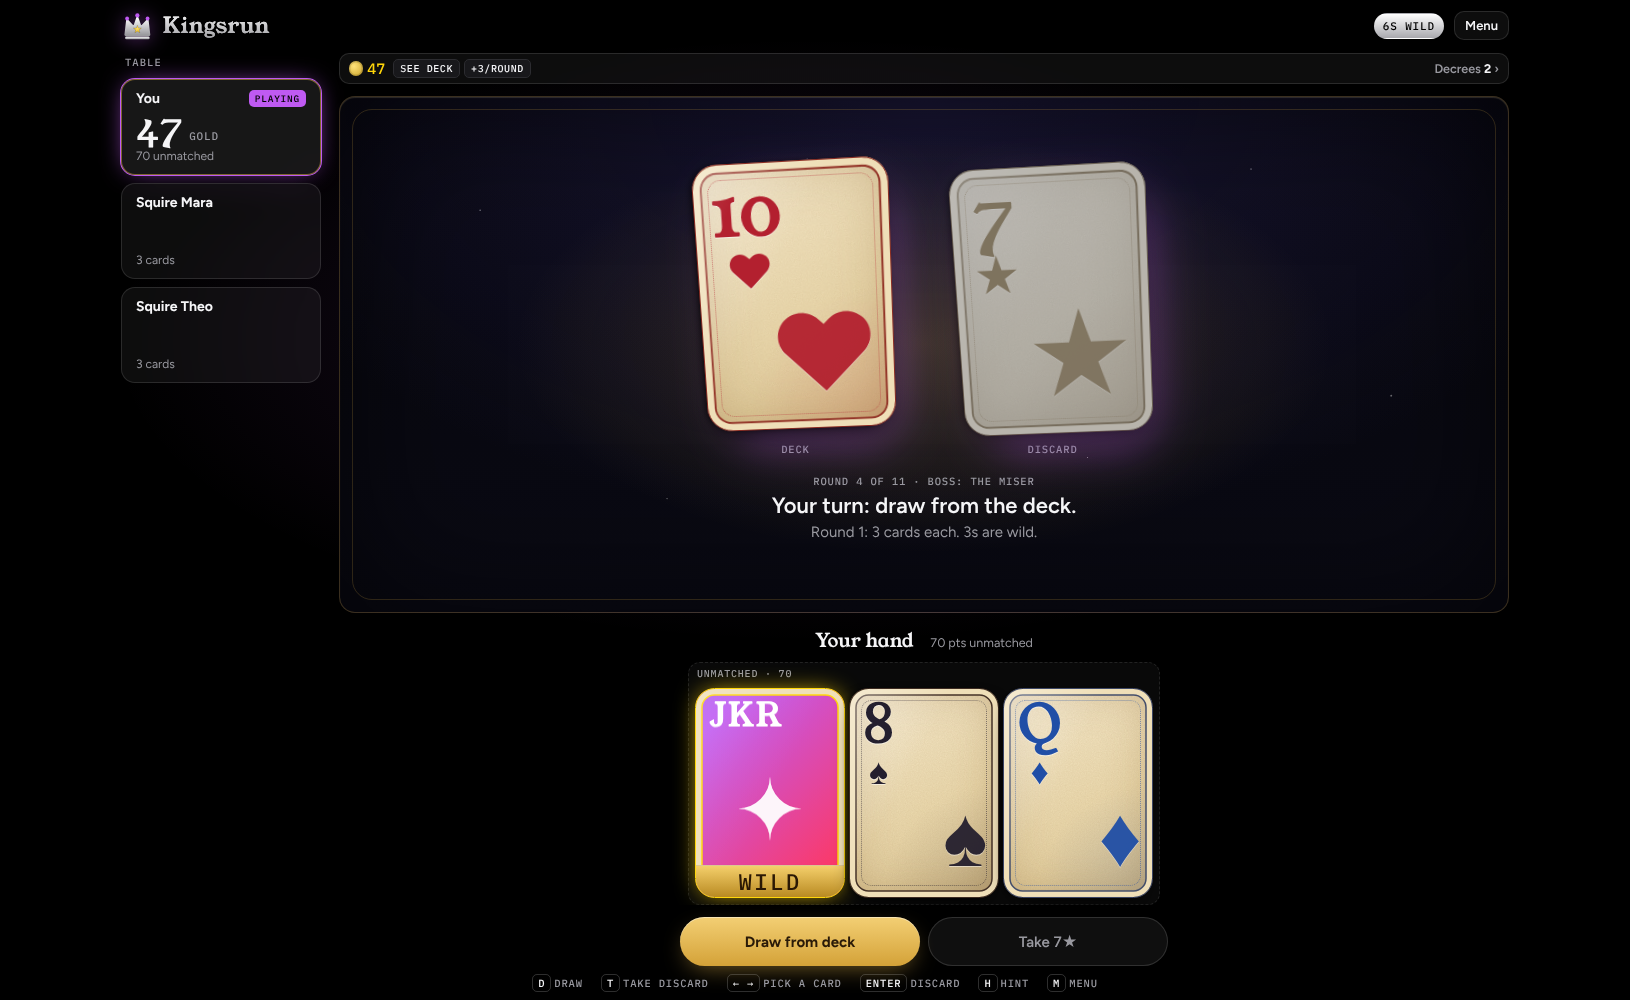
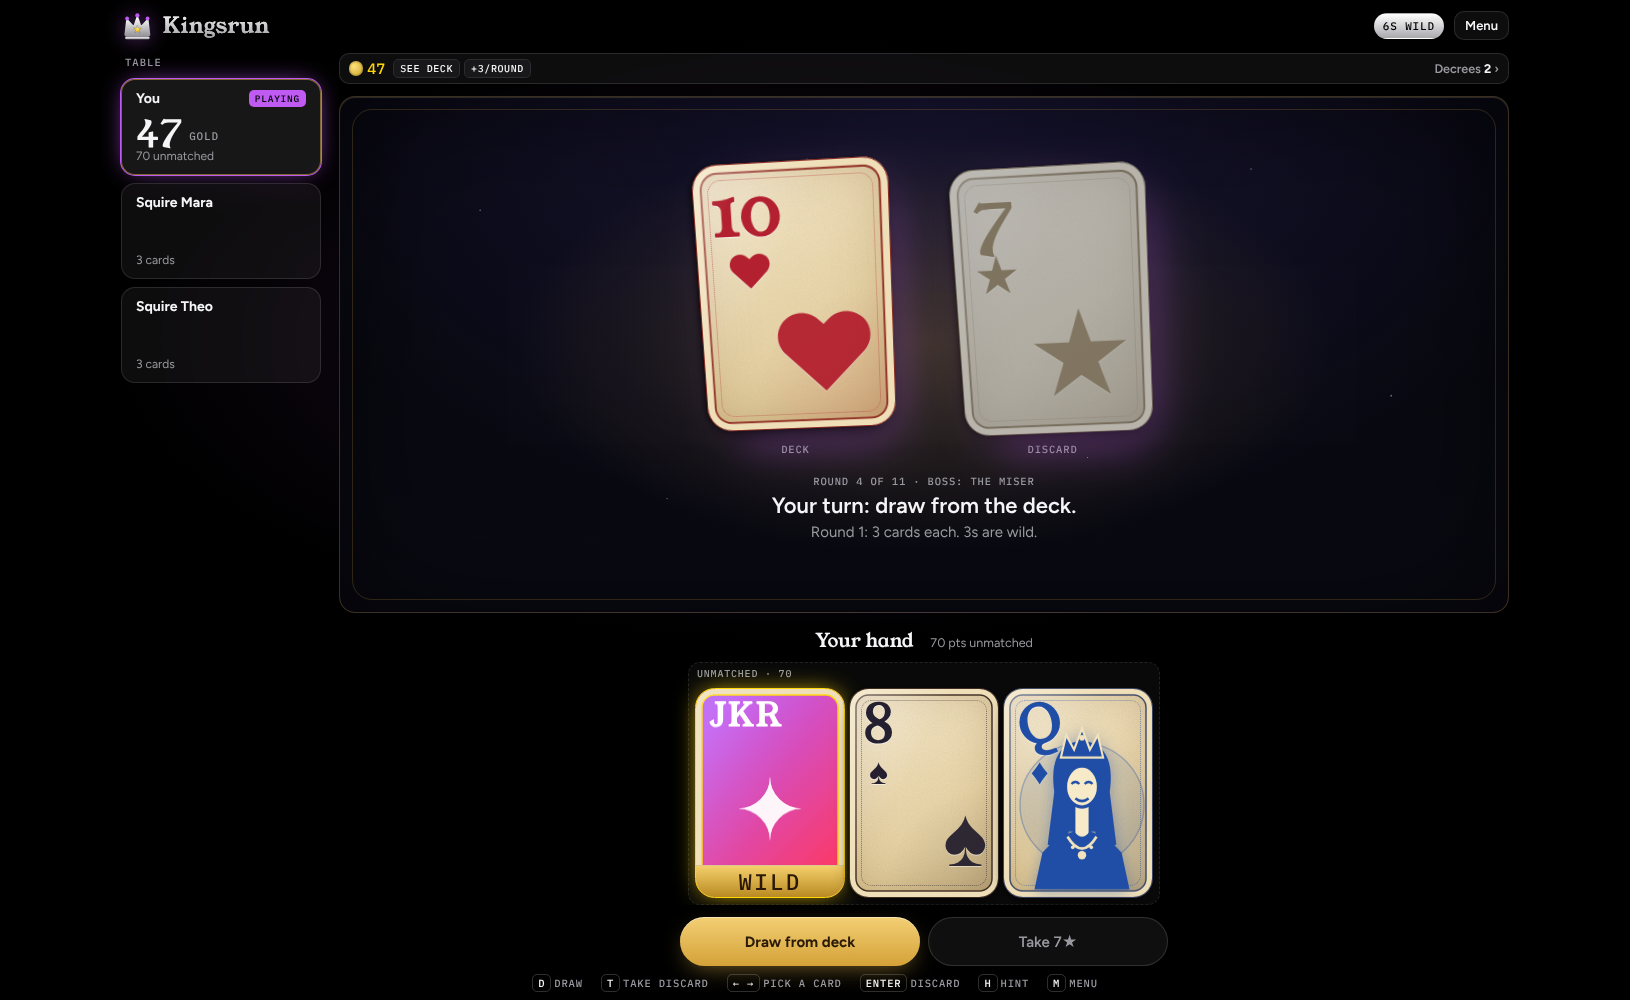
cook round 3: court-card figures and boss portraits (desktop only)
Claude-Session: https://claude.ai/code/session_0146jcC73GBfcingMg6m7u9m

Changed region(s): [[0.6135, 0.713, 0.7055, 0.899]]

diff --git a/index.html b/index.html
@@ -571,6 +571,22 @@ html[data-mode=run] .btn:not(.ghost):not(:disabled){background:linear-gradient(1
   html[data-mode=run] .sheet h2,html[data-mode=run] .offer b{color:#F6E3B0}
   html[data-mode=run] .bp.you{border-color:rgba(232,184,74,.5)}
 }
+
+.card .art,.bart{display:none}
+/* ===== cook round 3: court-card figures and boss cards (desktop only) ===== */
+@media (hover:hover) and (min-width:900px){
+  .card{--cut:#101012;--skin:color-mix(in srgb,currentColor 32%,#101012)}
+  html[data-mode=run] .card{--cut:#F1E3BD;--skin:#F6EAC9}
+  .card.court .art{display:block;position:absolute;right:calc(var(--cw)*.03);bottom:calc(var(--cw)*.05);width:calc(var(--cw)*.88);height:auto;overflow:visible;pointer-events:none;filter:drop-shadow(0 calc(var(--cw)*.02) calc(var(--cw)*.05) color-mix(in srgb,currentColor 40%,transparent))}
+  .card.court .big{display:none}
+  .card.court .tag{z-index:2}
+  .mini .card .art{display:none}
+  .bp.boss{padding-top:6px;border-color:rgba(232,70,91,.55);background:linear-gradient(180deg,rgba(232,70,91,.14),rgba(255,255,255,.04))}
+  .bp.boss .bart{display:block;width:100%;height:118px;margin:0 0 4px;filter:drop-shadow(0 6px 14px rgba(0,0,0,.6))}
+  .bp.boss .bsc{font-size:22px;color:var(--bad)}
+  .bossnote{position:relative;padding-left:92px;min-height:104px;justify-content:center}
+  .bossnote .bart{display:block;position:absolute;left:8px;top:50%;transform:translateY(-50%);width:76px;height:95px;filter:drop-shadow(0 4px 10px rgba(0,0,0,.6))}
+}
 </style>
 
 <div class="app">
@@ -1178,7 +1194,7 @@ function runPanelHTML(){
   const r=G.run,boss=BOSSES[r.boss];
   return `<div class="sheethead"><h2>Your Court</h2><button class="iconbtn" data-act="rclose">Done</button></div>
     <div class="treasury"><span class="ml">Treasury</span><b><i class="coin" aria-hidden="true"></i>${r.gold}</b><span class="mw">Every point you’re caught with costs 1 gold.${G.round<=3?` Act 1 bills are capped at ${ECON.act1Cap}.`:''}</span></div>
-    ${boss?`<div class="bossnote"><b>${boss.name}</b><span>${boss.rule}</span></div>`:''}
+    ${boss?`<div class="bossnote">${bossArt(boss.key)}<b>${boss.name}</b><span>${boss.rule}</span></div>`:''}
     <h3>Decrees · ${r.decrees.length} of ${ECON.maxD}</h3>${decreeList(true)}
     ${r.pardon||r.insurance?`<p class="note">Active this round: ${[r.pardon&&'Royal Pardon',r.insurance&&'Insurance'].filter(Boolean).join(', ')}.</p>`:''}
     <h3>Regalia · ${r.regalia.length} of ${ECON.maxR}</h3>${regaliaList(false)}`;
@@ -1192,7 +1208,7 @@ function courtHTML(){
       <button class="btn${o.sold||full||p>r.gold?' ghost':''}" data-act="rbuy" data-k="${k}" ${o.sold||full||p>r.gold?'disabled':''}>${lbl}</button></div>`;};
   return `<div class="sheethead"><h2>The Court</h2><span class="goldbig"><i class="coin" aria-hidden="true"></i>${r.gold}</span></div>
     <p class="note">Next: round ${nr} of 11 · ${nr+2} cards · ${rankLabel(nr+2)}s wild${nr<=3?` · bills capped at ${ECON.act1Cap}`:''}</p>
-    ${nb?`<div class="bossnote"><b>Boss next: ${nb.name}</b><span>${nb.rule} Beat it for +${ECON.boss} gold and a free pick at the next Court.</span></div>`:''}
+    ${nb?`<div class="bossnote">${bossArt(nb.key)}<b>Boss next: ${nb.name}</b><span>${nb.rule} Beat it for +${ECON.boss} gold and a free pick at the next Court.</span></div>`:''}
     ${r.free?'<p class="note good">Boss bounty: your first pick here is free.</p>':''}
     ${nr<=3&&r.gold<ECON.act1Cap?`<p class="note err">Careful: next round can cost up to ${ECON.act1Cap}, and you have ${r.gold}.</p>`:''}
     <div class="offers">${r.shop.map(offer).join('')}</div>
@@ -1233,11 +1249,35 @@ function pump(){
 }
 function commit(){save();render();pump();}
 
+
+/* ===== cook round 3: original SVG figures for court cards and bosses (shown on desktop only) ===== */
+const CUT='var(--cut,#101012)',SKIN='var(--skin,var(--cut,#101012))';
+const COURT_ART={
+ 13:`<path d="M30 32 L33 13 L43 23 L50 9 L57 23 L67 13 L70 32 Z" fill="currentColor"/><circle cx="33" cy="12" r="2.6" fill="currentColor"/><circle cx="50" cy="8" r="2.6" fill="currentColor"/><circle cx="67" cy="12" r="2.6" fill="currentColor"/><rect x="29" y="30" width="42" height="6" rx="1.5" fill="currentColor"/><circle cx="50" cy="33" r="1.8" fill="${CUT}"/><circle cx="40" cy="33" r="1.4" fill="${CUT}"/><circle cx="60" cy="33" r="1.4" fill="${CUT}"/>
+ <path d="M12 130 L16 100 Q26 87 40 84 L50 97 L60 84 Q74 87 84 100 L88 130 Z" fill="currentColor"/><path d="M40 84 L50 100 L60 84" stroke="${CUT}" stroke-width="2" fill="none"/><g fill="${CUT}"><circle cx="24" cy="110" r="2"/><circle cx="33" cy="122" r="2"/><circle cx="76" cy="110" r="2"/><circle cx="67" cy="122" r="2"/><circle cx="50" cy="116" r="2.4"/></g>
+ <ellipse cx="50" cy="55" rx="15" ry="18" fill="${SKIN}" stroke="currentColor" stroke-width="2.6"/><circle cx="44" cy="51" r="1.9" fill="currentColor"/><circle cx="56" cy="51" r="1.9" fill="currentColor"/><path d="M50 52 v6" stroke="currentColor" stroke-width="1.6" fill="none"/>
+ <path d="M34 54 Q34 80 50 86 Q66 80 66 54 Q60 68 50 68 Q40 68 34 54 Z" fill="currentColor"/><path d="M42 61 Q50 56 58 61" stroke="${CUT}" stroke-width="2" fill="none"/>`,
+ 12:`<path d="M29 56 Q24 20 50 17 Q76 20 71 56 L76 96 Q63 100 60 86 L40 86 Q37 100 24 96 Z" fill="currentColor"/>
+ <path d="M44 64 h12 v24 q-6 8 -12 0 z" fill="${SKIN}" stroke="currentColor" stroke-width="2"/>
+ <path d="M14 130 L20 102 Q30 90 44 86 Q50 94 56 86 Q70 90 80 102 L86 130 Z" fill="currentColor"/><path d="M39 90 Q50 108 61 90" stroke="${CUT}" stroke-width="2" fill="none"/><circle cx="50" cy="104" r="3.2" fill="${CUT}"/><circle cx="43" cy="98" r="1.4" fill="${CUT}"/><circle cx="57" cy="98" r="1.4" fill="${CUT}"/>
+ <ellipse cx="50" cy="52" rx="12.5" ry="15.5" fill="${SKIN}" stroke="currentColor" stroke-width="2.4"/><path d="M42 50 q3 -3 6 0 M52 50 q3 -3 6 0" stroke="currentColor" stroke-width="1.8" fill="none"/><path d="M45 61 q5 4 10 0" stroke="currentColor" stroke-width="2" fill="none"/>
+ <path d="M34 30 L38 13 L44 24 L50 8 L56 24 L62 13 L66 30 Z" fill="currentColor" stroke="${CUT}" stroke-width="1.6"/><circle cx="50" cy="15" r="2.2" fill="${CUT}"/>`,
+ 11:`<path d="M60 18 Q86 2 94 28 Q82 16 66 26 Z" fill="currentColor"/><path d="M62 20 Q80 12 90 26" stroke="${CUT}" stroke-width="1.2" fill="none"/>
+ <path d="M28 40 Q28 17 52 16 Q75 18 74 40 Z" fill="currentColor"/><path d="M20 42 Q50 34 82 42 L82 47 Q50 41 20 47 Z" fill="currentColor"/><circle cx="52" cy="29" r="2.6" fill="${CUT}"/>
+ <path d="M45 68 h10 v16 h-10 z" fill="${SKIN}" stroke="currentColor" stroke-width="2"/>
+ <path d="M14 130 L19 102 Q30 90 42 84 L50 93 L58 84 Q70 90 81 102 L86 130 Z" fill="currentColor"/><path d="M42 84 L50 98 L58 84" stroke="${CUT}" stroke-width="2" fill="none"/><path d="M26 100 L72 130" stroke="${CUT}" stroke-width="3" fill="none"/><circle cx="50" cy="108" r="2" fill="${CUT}"/><circle cx="50" cy="118" r="2" fill="${CUT}"/>
+ <ellipse cx="50" cy="57" rx="12.5" ry="14.5" fill="${SKIN}" stroke="currentColor" stroke-width="2.4"/><circle cx="45" cy="55" r="1.8" fill="currentColor"/><circle cx="55" cy="55" r="1.8" fill="currentColor"/><path d="M45 64 q5 4 10 0" stroke="currentColor" stroke-width="2" fill="none"/>`};
+const courtArt=r=>COURT_ART[r]?`<svg class="art" viewBox="0 0 100 130" aria-hidden="true"><circle cx="50" cy="66" r="47" fill="currentColor" opacity=".09"/><circle cx="50" cy="66" r="47" fill="none" stroke="currentColor" stroke-width="1" opacity=".35"/>${COURT_ART[r]}</svg>`:'';
+const BOSS_LOOK={
+ miser:{c:'#E2B84C',t:'Hoards every discard',svg:`<path d="M22 150 L27 72 Q33 22 62 20 Q92 22 98 72 L103 150 Z" fill="currentColor"/><ellipse cx="62" cy="68" rx="22" ry="28" fill="#15110a"/><path d="M49 62 h11 M65 62 h11" stroke="currentColor" stroke-width="3.2" stroke-linecap="round"/><path d="M63 64 q-7 12 2 15" stroke="currentColor" stroke-width="2.6" fill="none" stroke-linecap="round"/><path d="M52 86 q10 5 20 0" stroke="currentColor" stroke-width="2.6" fill="none" stroke-linecap="round"/><path d="M38 150 Q28 120 52 113 Q62 108 72 113 Q96 120 86 150 Z" fill="#15110a" stroke="currentColor" stroke-width="3"/><path d="M52 113 h20" stroke="currentColor" stroke-width="3"/><circle cx="62" cy="133" r="9" fill="none" stroke="currentColor" stroke-width="3"/><circle cx="62" cy="133" r="3" fill="currentColor"/><circle cx="100" cy="36" r="9" fill="currentColor"/><circle cx="100" cy="36" r="4.5" fill="#15110a"/><circle cx="18" cy="58" r="6" fill="currentColor"/><circle cx="18" cy="58" r="3" fill="#15110a"/>`},
+ jester:{c:'#FF6DB8',t:'Changes the wild every turn',svg:`<path d="M22 64 Q14 32 5 18 Q23 20 40 47 Q46 15 61 4 Q74 18 80 47 Q98 20 115 18 Q106 32 98 64 Z" fill="currentColor"/><g fill="#FFD25A"><circle cx="5" cy="18" r="6"/><circle cx="61" cy="4" r="6"/><circle cx="115" cy="18" r="6"/></g><ellipse cx="60" cy="80" rx="24" ry="26" fill="#14081a" stroke="currentColor" stroke-width="3"/><path d="M36 80 A24 26 0 0 1 60 54 L60 106 A24 26 0 0 1 36 80 Z" fill="currentColor" opacity=".85"/><path d="M45 76 l5 -5 l5 5 l-5 5 z M65 76 l5 -5 l5 5 l-5 5 z" fill="#FFD25A"/><path d="M44 92 Q60 108 76 92" stroke="#FFD25A" stroke-width="3" fill="none" stroke-linecap="round"/><path d="M28 150 L33 114 L43 126 L51 109 L60 124 L69 109 L77 126 L87 114 L92 150 Z" fill="currentColor"/><path d="M60 130 l8 10 l-8 10 l-8 -10 z" fill="#14081a"/>`},
+ usurper:{c:'#E8465B',t:'Your Jokers aren’t wild',svg:`<path d="M6 150 L26 80 Q60 98 94 80 L114 150 Z" fill="currentColor" opacity=".9"/><ellipse cx="60" cy="74" rx="20" ry="24" fill="#12060a" stroke="currentColor" stroke-width="3"/><circle cx="52" cy="72" r="4.2" fill="currentColor"/><circle cx="68" cy="72" r="4.2" fill="currentColor"/><path d="M60 52 L56 64 L63 72 L58 88" stroke="currentColor" stroke-width="2.2" fill="none"/><path d="M51 90 h18" stroke="currentColor" stroke-width="2.4" stroke-linecap="round"/><g transform="rotate(-14 60 42)"><path d="M33 46 L37 20 L49 34 L60 12 L71 34 L83 20 L87 46 Z" fill="#FFD25A"/><rect x="32" y="44" width="56" height="7" rx="2" fill="#FFD25A"/><circle cx="60" cy="47.5" r="2" fill="#12060a"/></g><path d="M60 108 l5 11 l11 5 l-11 5 l-5 11 l-5 -11 l-11 -5 l11 -5 z" fill="#FFD25A"/>`}};
+const bossArt=k=>BOSS_LOOK[k]?`<svg class="bart" viewBox="0 0 120 150" aria-hidden="true" style="color:${BOSS_LOOK[k].c}">${BOSS_LOOK[k].svg}</svg>`:'';
 function cardHTML(c,wr,tag='div',attrs='',cls=''){
   if(c.s<0){const w=isWild(c,wr);
     return `<${tag} class="card joker${w?' wild':' deadj'} ${cls}" ${attrs} aria-label="Joker, ${w?'wild':'not wild'}"><span class="rk">JKR</span><span class="big">✦</span><span class="tag">${w?'wild':'dead'}</span></${tag}>`;}
   const w=isWild(c,wr);
-  return `<${tag} class="card s${c.s}${w?' wild':''} ${cls}" ${attrs} aria-label="${rankLabel(c.r)} of ${SUIT_NAMES[c.s]}${w?', wild':''}"><span class="rk">${rankLabel(c.r)}<i>${SUITS[c.s]}</i></span><span class="big">${SUITS[c.s]}</span>${w?'<span class="tag">wild</span>':''}</${tag}>`;
+  return `<${tag} class="card s${c.s}${c.r>=11?' court':''}${w?' wild':''} ${cls}" ${attrs} aria-label="${rankLabel(c.r)} of ${SUIT_NAMES[c.s]}${w?', wild':''}"><span class="rk">${rankLabel(c.r)}<i>${SUITS[c.s]}</i></span>${courtArt(c.r)}<span class="big">${SUITS[c.s]}</span>${w?'<span class="tag">wild</span>':''}</${tag}>`;
 }
 function meldLabel(m,wr){
   const nat=m.cards.find(c=>!isWild(c,wr));
@@ -1294,7 +1334,7 @@ function render(){
     const big=run?(you?`${run.gold}<small>gold</small>`:p.boss?'Boss':'&nbsp;'):p.score;
     const last=!run&&p.rounds&&p.rounds.length?`last round ${p.rounds[p.rounds.length-1]>0?'+':''}${p.rounds[p.rounds.length-1]}`:'';
     const sub=run?(you?`${Math.floor(solve(p.hand,rulesFor(i)).cost)} unmatched`:p.boss?esc(BOSSES[p.boss].short):`${p.hand.length} cards`):last;
-    return `<div class="bp${you?' you':''}${act?' act':''}${out?' out':''}${!run&&G.round>1&&p.score===lo?' lead':''}"><div class="bn"><span>${you&&!onl()&&p.name==='You'?'You':esc(p.name)}</span>${out?'<b class="bdg out">Out</b>':act?'<b class="bdg">Playing</b>':''}</div><div class="bsc">${big}</div><div class="bm">${sub}</div></div>`;}).join('');}
+    return `<div class="bp${you?' you':''}${act?' act':''}${out?' out':''}${p.boss?' boss':''}${!run&&G.round>1&&p.score===lo?' lead':''}">${p.boss?bossArt(p.boss):''}<div class="bn"><span>${you&&!onl()&&p.name==='You'?'You':esc(p.name)}</span>${out?'<b class="bdg out">Out</b>':act?'<b class="bdg">Playing</b>':''}</div><div class="bsc">${big}</div><div class="bm">${sub}</div></div>`;}).join('');}
 
   const canDraw=myTurn&&G.phase==='draw';
   const peek=run&&G.deck.length&&(runHas('spyglass')||run.peek)&&(G.phase==='draw'||G.phase==='discard')?G.deck[G.deck.length-1]:null;

diff --git a/cook/shoot.js b/cook/shoot.js
@@ -10,6 +10,10 @@ const srv=http.createServer((q,r)=>{let f=path.join(root,decodeURIComponent(q.ur
   const p=await ctx.newPage();const errs=[];p.on('pageerror',e=>errs.push(String(e)));const tag=`${w}x${h}`;
   const snap=async n=>{await p.waitForTimeout(450);await p.screenshot({path:`${OUT}/${n}-${tag}.png`});};
   await p.goto('http://localhost:8810/');await p.waitForTimeout(500);if(await p.isVisible('#title'))await p.click('#tplay');await p.waitForTimeout(600);
+  // round 3: court figures + boss cards
+  await p.evaluate(()=>{clearTimeout(timer);timer=null;newGame({mode:'run',count:2,names:[]});G.run.gold=47;G.turn=0;G.phase='discard';const me=G.players[0];me.hand=[{s:1,r:13},{s:2,r:12},{s:0,r:11},{s:3,r:13},{s:4,r:12},{s:1,r:11},{s:2,r:7}];G.discard.push({s:3,r:12});render();});await snap('8-court-hand-run');
+  await p.evaluate(()=>{clearTimeout(timer);timer=null;newGame({mode:'ai',count:3,names:[],level:'normal'});G.turn=0;G.phase='discard';G.round=9;const me=G.players[0];me.hand=[{s:1,r:13},{s:2,r:12},{s:0,r:11},{s:3,r:13},{s:4,r:12},{s:1,r:11},{s:2,r:7},{s:0,r:6},{s:3,r:9}];G.discard.push({s:4,r:11});render();});await snap('9-court-hand-std');
+  for(const k of ['miser','jester','usurper']){await p.evaluate(k=>{clearTimeout(timer);timer=null;newGame({mode:'run',count:2,names:[]});const b=BOSSES[k];G.players[1].name=b.name;G.players[1].boss=k;G.run.boss=k;G.run.gold=47;G.turn=0;G.phase='draw';render();openCourt&&0;},k);await snap('10-boss-'+k);}
   // 1 classic table, draw phase, then discard phase with a real hand
   await p.evaluate(()=>{seedRng(11);clearTimeout(timer);timer=null;newGame({mode:'ai',count:3,names:[],level:'normal'});G.turn=0;G.phase='draw';G.round=5;const me=G.players[0];me.hand=[];while(me.hand.length<7)me.hand.push(G.deck.pop());G.players.forEach((q,i)=>{q.score=[34,58,12,71][i]});render();});
   await snap('1-table-draw');
@@ -20,6 +24,7 @@ const srv=http.createServer((q,r)=>{let f=path.join(root,decodeURIComponent(q.ur
   await p.evaluate(()=>{clearTimeout(timer);timer=null;newGame({mode:'run',count:2,names:[]});G.run.regalia=['spyglass','patron'];G.run.decrees=['scout','fog'];G.run.gold=47;G.turn=0;G.phase='draw';render();});await snap('4-run-table');
   await p.evaluate(()=>{G.round=4;G.run.boss='miser';render();});await snap('5-boss-table');
   await p.evaluate(()=>{G.phase='roundEnd';openCourt&&openCourt();render();});await snap('6-court');
+  await p.evaluate(()=>{G.round=3;G.run.boss=null;G.phase='roundEnd';openCourt&&openCourt();render();});await snap('11-court-boss-next');
   await p.evaluate(()=>{G.run.over='won';G.round=11;G.phase='gameEnd';G.result=G.result||G.players.map(()=>({melds:[],dead:[],pts:0}));G.outBy=0;render();});await snap('7-run-end');
   console.log(tag,errs.length?errs:'no errors');await ctx.close();}
  await b.close();srv.close();})();

diff --git a/sw.js b/sw.js
@@ -1,5 +1,5 @@
 // Kingsrun offline support. Version changes whenever any app file changes.
-const CACHE = 'kingsrun-785c05c145';
+const CACHE = 'kingsrun-19ebe4710e';
 const ASSETS = ["./", "index.html", "manifest.webmanifest", "icon-192.png", "icon-512.png", "maskable-512.png", "apple-touch-icon.png", "young-serif-400.woff2", "figtree-400.woff2", "figtree-500.woff2", "figtree-600.woff2", "figtree-700.woff2", "ibm-plex-mono-500.woff2"];
 
 self.addEventListener('install', e => {

diff --git a/cook/ROUNDS.md b/cook/ROUNDS.md
@@ -4,3 +4,4 @@
 |---|---|---|---|
 | 1 | Materials and light (cards, sheets, table) | Card sheen + suit-coloured rim and glow; glass sheets with blur and inner highlight; Court/Regalia rows lit; red dashed dead-group borders softened; table gets pool of light and inner ring; piles scale with table height (container units) | Composition 7, Light 8, Materials 8, Run screens 7 (self-scored) |
 | 2 | The Run gets the fantasy theme (desktop only): parchment cards with dark suit inks, gold wild, enchanted navy/gold card back, dusk table with gold light pool, gold-trimmed sheets, gold primary buttons. Standard game keeps dark glass. | Court/end sheets still plain dark; left rail empty under scoreboard | Round tracker + wild reminder in left rail (round 3) |
+| 3 | Court cards (J/Q/K) drawn as original SVG figures (desktop only, both themes); bosses get portrait cards (Miser, Jester, Usurper) in the left rail and the Court | Left rail still empty under the table; sheets plain | Round tracker + wild reminder in left rail |
